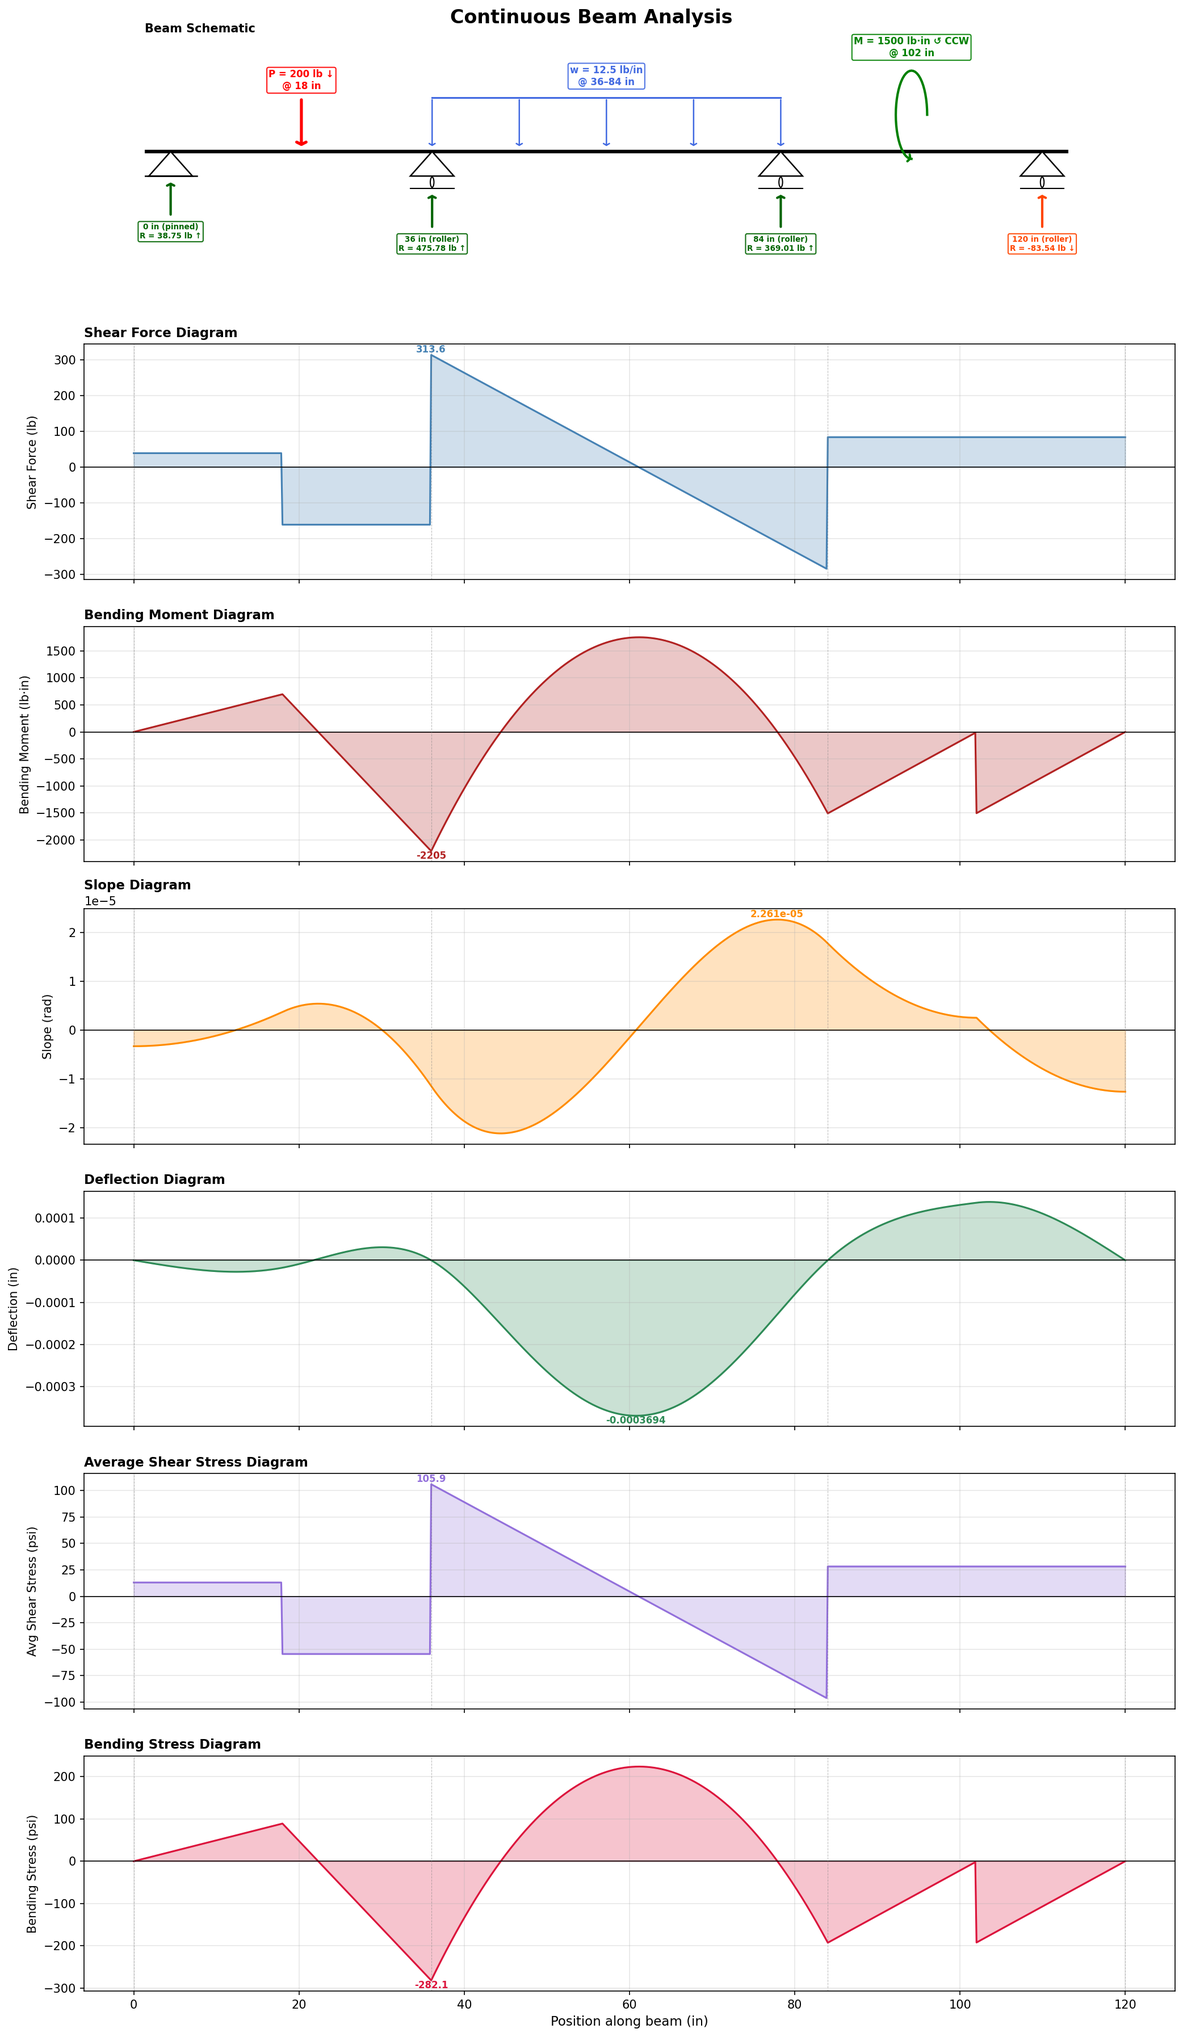
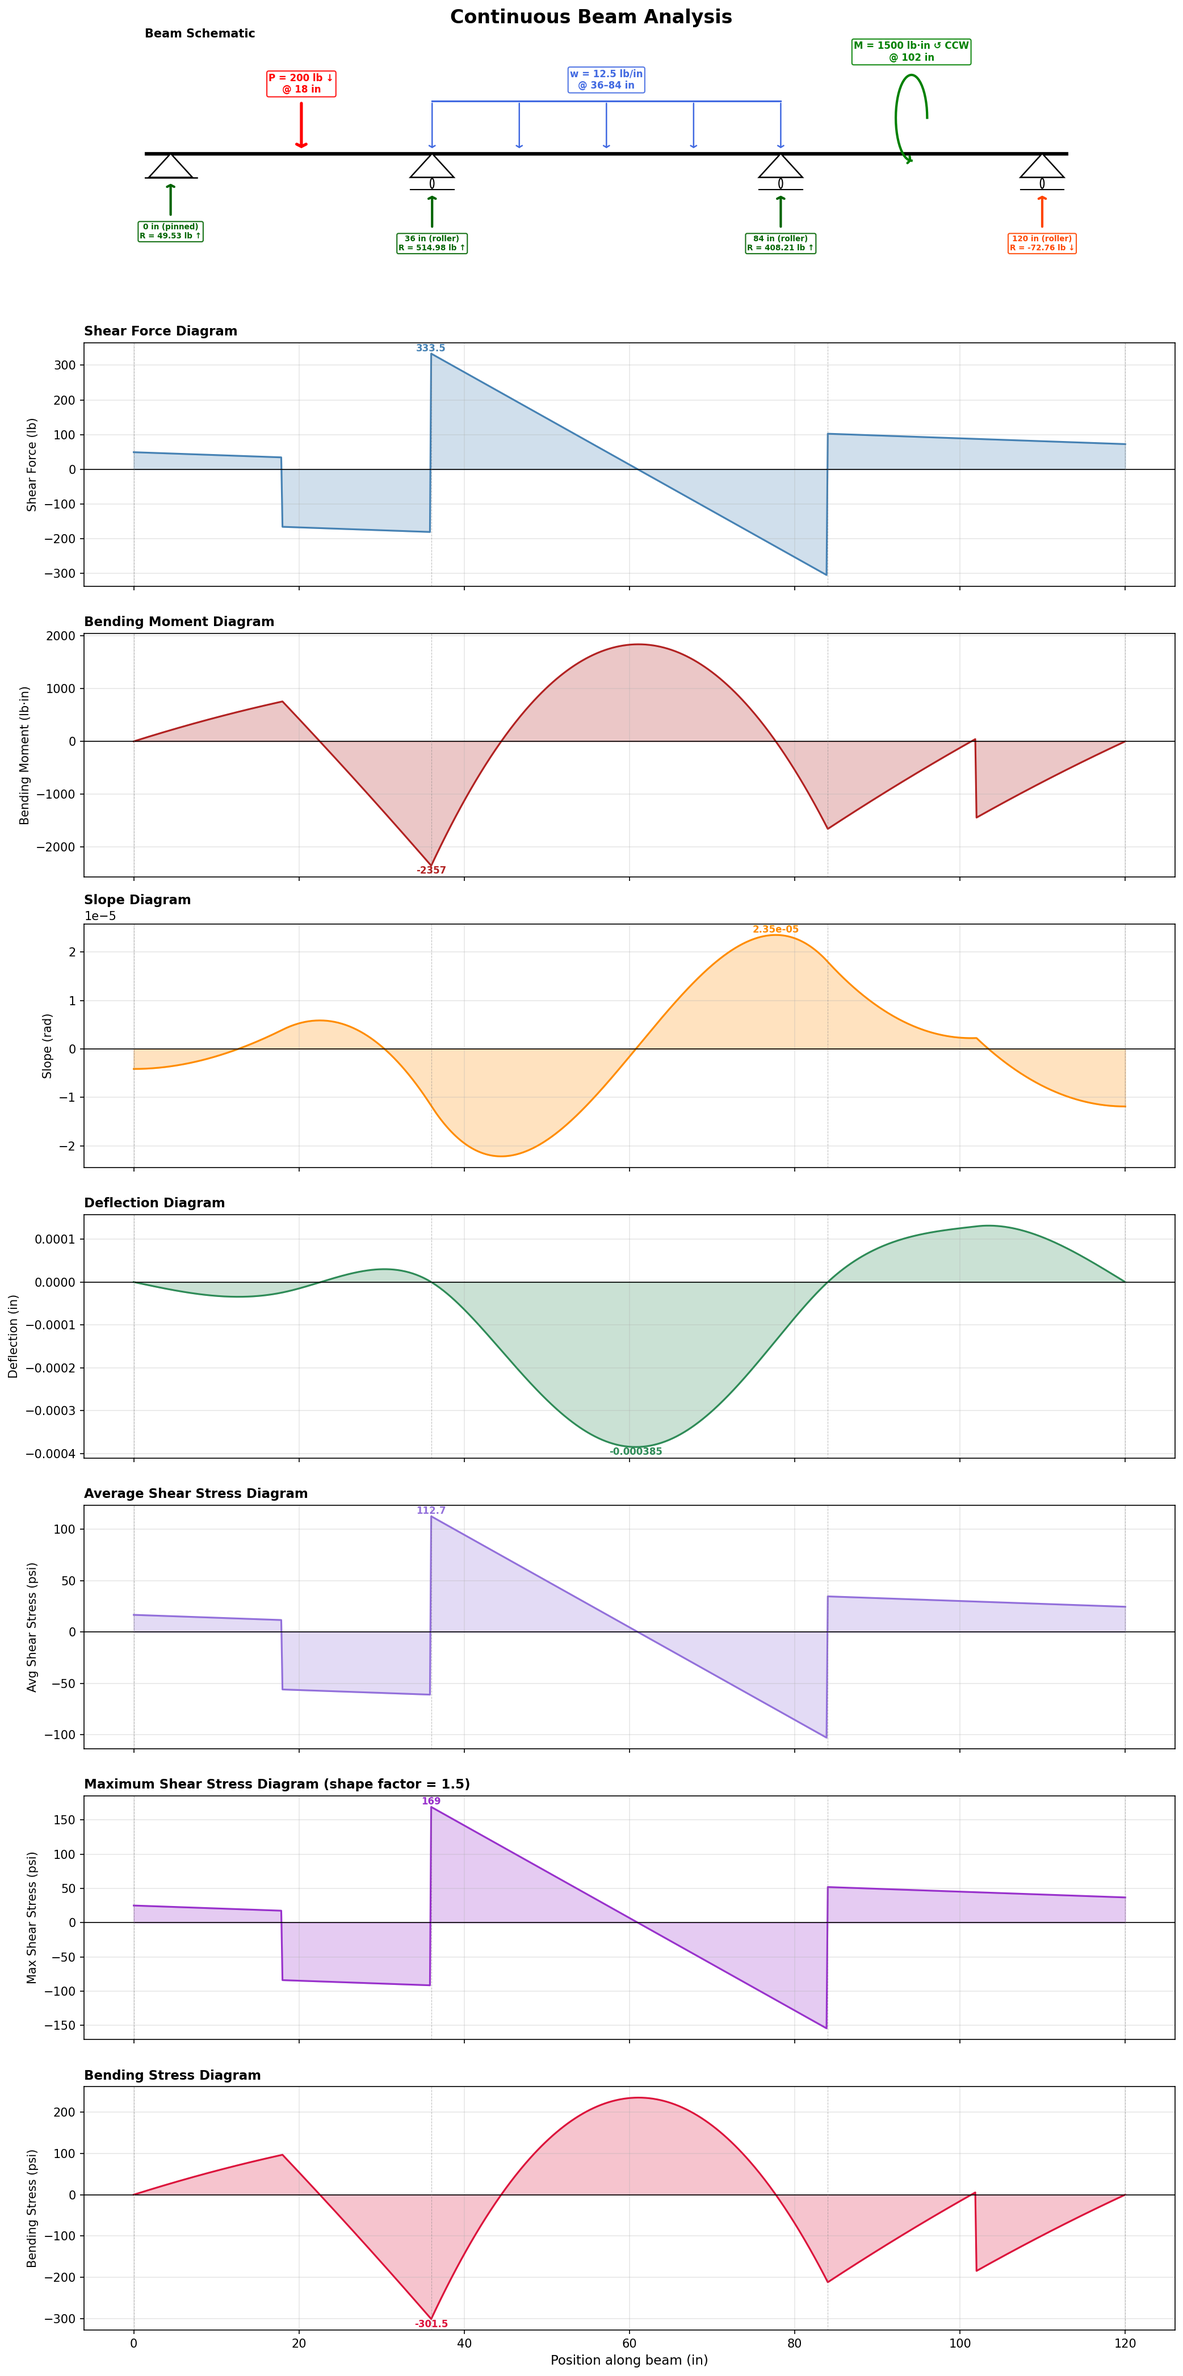
Add self-weight and maximum shear stress to beam analysis
- Add weight_per_length field to BeamSection: when > 0, the solver
  automatically includes a full-span uniform distributed load for
  beam self-weight (no manual distributed load entry needed)
- Add shear_shape_factor field to BeamSection (default 1.5 for
  rectangular): computes maximum shear stress at neutral axis as
  τ_max = factor × V/A, alongside the existing average τ = V/A
- Add 7th subplot for Maximum Shear Stress Diagram
- Report both average and max shear stress in console output
- Update first example with W8x10 self-weight (0.833 lb/in)
- Document shape factors for common sections including 80/20
  aluminum extrusions in README

https://claude.ai/code/session_01RB9D9oZgYMgHdXQeJcgdrT

diff --git a/beam_solver.py b/beam_solver.py
@@ -87,15 +87,24 @@ class AppliedMoment:
 class BeamSection:
     """
     Cross-section and material properties.
-    E : modulus of elasticity
-    I : second moment of area (moment of inertia)
-    A : cross-sectional area
-    c : distance from neutral axis to extreme fiber (for bending stress)
+    E                 : modulus of elasticity
+    I                 : second moment of area (moment of inertia)
+    A                 : cross-sectional area
+    c                 : distance from neutral axis to extreme fiber (for bending stress)
+    weight_per_length : beam self-weight per unit length (force/length, e.g. lb/in
+                        or N/mm).  If > 0 the solver automatically adds a uniform
+                        downward distributed load over the full span.  Default 0.
+    shear_shape_factor: multiplier to convert average shear stress (V/A) to maximum
+                        shear stress at the neutral axis.  Depends on cross-section
+                        shape:  1.5 for rectangular, 4/3 for solid circular,
+                        ~A/(d·t_w) for I-beams.  Default 1.5 (rectangular).
     """
     E: float
     I: float
     A: float
     c: float
+    weight_per_length: float = 0.0
+    shear_shape_factor: float = 1.5
 
 
 # ─────────────────────────────────────────────────────────────
@@ -138,7 +147,8 @@ class ContinuousBeamSolver:
         self.M_plot = None
         self.theta_plot = None
         self.delta_plot = None
-        self.tau_plot = None
+        self.tau_avg_plot = None
+        self.tau_max_plot = None
         self.sigma_plot = None
 
     # ── Mesh Generation ──────────────────────────────────────
@@ -181,6 +191,21 @@ class ContinuousBeamSolver:
         n_dof = 2 * n_nodes
         EI = self.section.E * self.section.I
 
+        # ── Self-weight ──
+        # If the section has a weight_per_length, prepend a full-span
+        # uniform distributed load so it participates in the assembly
+        # and in the equilibrium check.
+        if self.section.weight_per_length > 0:
+            self_weight_load = DistributedLoad(
+                start=0.0,
+                end=self.length,
+                w_start=self.section.weight_per_length,
+                w_end=self.section.weight_per_length,
+            )
+            self._all_distributed_loads = [self_weight_load] + list(self.distributed_loads)
+        else:
+            self._all_distributed_loads = list(self.distributed_loads)
+
         # ── Global stiffness matrix and force vector ──
         K = np.zeros((n_dof, n_dof))
         F = np.zeros(n_dof)
@@ -208,7 +233,7 @@ class ContinuousBeamSolver:
                     K[dofs[a], dofs[b]] += k_e[a, b]
 
             # ── Distributed loads (equivalent nodal forces) ──
-            for dl in self.distributed_loads:
+            for dl in self._all_distributed_loads:
                 if x1 <= dl.start + 1e-12 or x0 >= dl.end - 1e-12:
                     continue
 
@@ -336,8 +361,9 @@ class ContinuousBeamSolver:
 
     def _distributed_load_at(self, x: float) -> float:
         """Return the total distributed load intensity at position x (positive downward)."""
+        loads = getattr(self, '_all_distributed_loads', self.distributed_loads)
         w_total = 0.0
-        for dl in self.distributed_loads:
+        for dl in loads:
             if dl.start - 1e-12 <= x <= dl.end + 1e-12:
                 span = dl.end - dl.start
                 if span < 1e-14:
@@ -408,7 +434,8 @@ class ContinuousBeamSolver:
                 V[-1] = (EI / h ** 3) * (12 * v1 + 6 * h * t1 - 12 * v2 + 6 * h * t2)
 
         # ── Stresses ──
-        tau = V / self.section.A  # average shear stress
+        tau_avg = V / self.section.A  # average shear stress
+        tau_max = self.section.shear_shape_factor * tau_avg  # max shear stress at neutral axis
         sigma = M * self.section.c / self.section.I  # max bending stress (at extreme fiber)
 
         # ── Store ──
@@ -417,7 +444,8 @@ class ContinuousBeamSolver:
         self.M_plot = M
         self.theta_plot = theta
         self.delta_plot = delta
-        self.tau_plot = tau
+        self.tau_avg_plot = tau_avg
+        self.tau_max_plot = tau_max
         self.sigma_plot = sigma
 
     # ── Printing ──────────────────────────────────────────────
@@ -466,21 +494,26 @@ class ContinuousBeamSolver:
 
         print(f"\n  Sum of vertical reactions: {total_v:.4f} {f_unit}")
 
-        # Total applied load
+        # Total applied load (including self-weight if present)
         total_load = sum(pl.magnitude for pl in self.point_loads)
-        for dl in self.distributed_loads:
+        loads = getattr(self, '_all_distributed_loads', self.distributed_loads)
+        for dl in loads:
             w_avg = (dl.w_start + dl.w_end) / 2
             total_load += w_avg * (dl.end - dl.start)
         print(f"  Total applied load:       {total_load:.4f} {f_unit} (downward)")
+        if self.section.weight_per_length > 0:
+            sw = self.section.weight_per_length * self.length
+            print(f"    (includes self-weight:  {sw:.4f} {f_unit})")
         print(f"  Equilibrium check:        {abs(total_v - total_load):.6e} {f_unit}")
 
         print("\n── EXTREME VALUES ───────────────────────────────────────")
-        print(f"  Max shear force:     {np.max(np.abs(self.V_plot)):12.4f} {f_unit}")
-        print(f"  Max bending moment:  {np.max(np.abs(self.M_plot)):12.4f} {m_unit}")
-        print(f"  Max deflection:      {np.max(np.abs(self.delta_plot)):12.6f} {d_unit}")
-        print(f"  Max slope:           {np.max(np.abs(self.theta_plot)):12.6e} {ang_unit}")
-        print(f"  Max avg shear stress:{np.max(np.abs(self.tau_plot)):12.4f} {s_unit}")
-        print(f"  Max bending stress:  {np.max(np.abs(self.sigma_plot)):12.4f} {s_unit}")
+        print(f"  Max shear force:      {np.max(np.abs(self.V_plot)):12.4f} {f_unit}")
+        print(f"  Max bending moment:   {np.max(np.abs(self.M_plot)):12.4f} {m_unit}")
+        print(f"  Max deflection:       {np.max(np.abs(self.delta_plot)):12.6f} {d_unit}")
+        print(f"  Max slope:            {np.max(np.abs(self.theta_plot)):12.6e} {ang_unit}")
+        print(f"  Max avg shear stress: {np.max(np.abs(self.tau_avg_plot)):12.4f} {s_unit}")
+        print(f"  Max shear stress:     {np.max(np.abs(self.tau_max_plot)):12.4f} {s_unit}  (shape factor = {self.section.shear_shape_factor})")
+        print(f"  Max bending stress:   {np.max(np.abs(self.sigma_plot)):12.4f} {s_unit}")
         print("=" * 65)
 
     # ── Plotting ──────────────────────────────────────────────
@@ -502,7 +535,7 @@ class ContinuousBeamSolver:
 
         x = self.x_plot
 
-        fig, axes = plt.subplots(6, 1, figsize=(14, 24), sharex=True)
+        fig, axes = plt.subplots(7, 1, figsize=(14, 28), sharex=True)
         fig.suptitle("Continuous Beam Analysis", fontsize=16, fontweight="bold", y=0.995)
 
         # ── Helper: draw beam schematic on each subplot ──
@@ -516,7 +549,8 @@ class ContinuousBeamSolver:
             (self.M_plot, f"Bending Moment ({m_unit})", "firebrick", "Bending Moment Diagram"),
             (self.theta_plot, f"Slope (rad)", "darkorange", "Slope Diagram"),
             (self.delta_plot, f"Deflection ({d_unit})", "seagreen", "Deflection Diagram"),
-            (self.tau_plot, f"Avg Shear Stress ({s_unit})", "mediumpurple", "Average Shear Stress Diagram"),
+            (self.tau_avg_plot, f"Avg Shear Stress ({s_unit})", "mediumpurple", "Average Shear Stress Diagram"),
+            (self.tau_max_plot, f"Max Shear Stress ({s_unit})", "darkorchid", f"Maximum Shear Stress Diagram (shape factor = {self.section.shear_shape_factor})"),
             (self.sigma_plot, f"Bending Stress ({s_unit})", "crimson", "Bending Stress Diagram"),
         ]
 
@@ -548,7 +582,7 @@ class ContinuousBeamSolver:
         axes[-1].set_xlabel(f"Position along beam ({l_unit})", fontsize=11)
 
         # ── Draw beam schematic at the top ──
-        ax_beam = fig.add_axes([0.125, 0.86, 0.775, 0.12])
+        ax_beam = fig.add_axes([0.125, 0.88, 0.775, 0.10])
         beam_len = self.length
         pad = beam_len * 0.03
         ax_beam.set_xlim(x[0] - pad, x[-1] + pad)
@@ -787,7 +821,7 @@ class ContinuousBeamSolver:
                 zorder=6,
             )
 
-        plt.tight_layout(rect=[0, 0, 1, 0.86])
+        plt.tight_layout(rect=[0, 0, 1, 0.88])
 
         if save_path:
             plt.savefig(save_path, dpi=150, bbox_inches="tight")
@@ -826,11 +860,15 @@ def example_four_support_beam():
     #   I = 30.8 in^4
     #   A = 2.96 in^2
     #   c = 3.94 in (half-depth)
+    #   weight = 10 lb/ft = 0.833 lb/in
+    #   shear_shape_factor = 1.5 (rectangular approx; for I-beams use A/(d*t_w))
     section = BeamSection(
-        E=29_000_000.0,  # psi
-        I=30.8,          # in^4
-        A=2.96,          # in^2
-        c=3.94,          # in
+        E=29_000_000.0,       # psi
+        I=30.8,               # in^4
+        A=2.96,               # in^2
+        c=3.94,               # in
+        weight_per_length=0.833,  # lb/in  (W8x10 ≈ 10 lb/ft)
+        shear_shape_factor=1.5,   # rectangular approximation
     )
 
     # ── Supports ──

diff --git a/README.md b/README.md
@@ -11,7 +11,9 @@ A Python tool for analyzing statically indeterminate continuous beams using the 
 - **Any number of supports** at arbitrary positions — pinned, roller, fixed, or elastic (beam/spring)
 - **Mixed loading** — point loads, distributed loads (uniform or trapezoidal), and applied moments, in any combination
 - **Imperial or metric** unit systems
-- **Six output diagrams** — shear force, bending moment, slope, deflection, average shear stress, and bending stress
+- **Automatic self-weight** — optional beam weight per unit length is automatically included as a uniform distributed load
+- **Maximum shear stress** — reports both average (V/A) and maximum shear stress using a configurable cross-section shape factor
+- **Seven output diagrams** — shear force, bending moment, slope, deflection, average shear stress, maximum shear stress, and bending stress
 - **Annotated beam schematic** — a free body diagram showing all applied loads with positions, support types, and calculated reaction forces with direction arrows
 - **Console output** — tabulated reactions, equilibrium check, and extreme values
 
@@ -86,19 +88,48 @@ beam_length = 120.0  # total span in inches (or mm for metric)
 
 ```python
 section = BeamSection(
-    E=29_000_000.0,  # modulus of elasticity (psi or MPa)
-    I=30.8,          # moment of inertia (in⁴ or mm⁴)
-    A=2.96,          # cross-sectional area (in² or mm²)
-    c=3.94,          # distance from neutral axis to extreme fiber (in or mm)
+    E=29_000_000.0,       # modulus of elasticity (psi or MPa)
+    I=30.8,               # moment of inertia (in⁴ or mm⁴)
+    A=2.96,               # cross-sectional area (in² or mm²)
+    c=3.94,               # distance from neutral axis to extreme fiber (in or mm)
+    weight_per_length=0.833,  # self-weight per unit length (lb/in or N/mm), default 0
+    shear_shape_factor=1.5,   # multiplier for max shear stress (default 1.5)
 )
 ```
 
-| Property | Description | Imperial | Metric |
-|----------|-------------|----------|--------|
-| `E` | Modulus of elasticity | psi | MPa |
-| `I` | Second moment of area | in⁴ | mm⁴ |
-| `A` | Cross-sectional area | in² | mm² |
-| `c` | Extreme fiber distance | in | mm |
+| Property | Description | Imperial | Metric | Default |
+|----------|-------------|----------|--------|---------|
+| `E` | Modulus of elasticity | psi | MPa | — |
+| `I` | Second moment of area | in⁴ | mm⁴ | — |
+| `A` | Cross-sectional area | in² | mm² | — |
+| `c` | Extreme fiber distance | in | mm | — |
+| `weight_per_length` | Beam self-weight per unit length | lb/in | N/mm | 0 |
+| `shear_shape_factor` | Max-to-average shear stress ratio | — | — | 1.5 |
+
+#### Self-Weight
+
+If `weight_per_length` is set to a value greater than zero, the solver automatically adds a full-span uniform downward distributed load equal to the beam's self-weight. This load participates in the analysis alongside all other applied loads and is included in the equilibrium check.
+
+```python
+# W8x10 steel beam weighs 10 lb/ft = 0.833 lb/in
+section = BeamSection(E=29e6, I=30.8, A=2.96, c=3.94, weight_per_length=0.833)
+```
+
+To omit self-weight (the default), either leave the parameter out or set it to `0`.
+
+#### Shear Shape Factor
+
+The average shear stress `V/A` underestimates the actual maximum shear stress at the neutral axis. The `shear_shape_factor` converts average to maximum: `τ_max = shear_shape_factor × V/A`.
+
+| Cross-Section | Shape Factor |
+|---------------|-------------|
+| Rectangular | 1.5 |
+| Solid circular | 4/3 ≈ 1.333 |
+| Thin-walled circular | 2.0 |
+| Wide-flange (I-beam) | ≈ A / (d × t_w) |
+| Aluminum extrusion (e.g. 80/20) | ≈ A / (d × t_w_min) — use the thinnest web |
+
+For complex profiles like 80/20 T-slot extrusions, check the manufacturer's data sheet for section properties and minimum web thickness, then compute the factor as `A / (depth × min_web_thickness)`.
 
 **Common material values:**
 
@@ -264,9 +295,11 @@ The plot is saved to the specified path (default: `beam_analysis.png`) and conta
 
 5. **Deflection Diagram** — vertical displacement δ of the beam (in length units). Negative = downward. Zero at pinned/roller/fixed support locations; non-zero at beam (spring) supports.
 
-6. **Average Shear Stress Diagram** — τ = V / A (in stress units). Same shape as the shear force diagram, scaled by cross-sectional area. Note: actual maximum shear stress is higher (1.5× for rectangular sections; varies for other shapes).
+6. **Average Shear Stress Diagram** — τ_avg = V / A (in stress units). Same shape as the shear force diagram, scaled by cross-sectional area.
 
-7. **Bending Stress Diagram** — σ = M·c / I (in stress units). Maximum fiber stress at the extreme fiber of the cross-section. Compare this to the material's allowable bending stress.
+7. **Maximum Shear Stress Diagram** — τ_max = shear_shape_factor × V / A (in stress units). The actual peak shear stress at the neutral axis, accounting for cross-section shape. Compare this to the material's allowable shear stress.
+
+8. **Bending Stress Diagram** — σ = M·c / I (in stress units). Maximum fiber stress at the extreme fiber of the cross-section. Compare this to the material's allowable bending stress.
 
 ---
 
@@ -301,7 +334,8 @@ print(solver.V_plot)             # shear force array
 print(solver.M_plot)             # bending moment array
 print(solver.delta_plot)         # deflection array
 print(solver.theta_plot)         # slope array
-print(solver.tau_plot)           # average shear stress array
+print(solver.tau_avg_plot)       # average shear stress array
+print(solver.tau_max_plot)       # maximum shear stress array (shape-factor adjusted)
 print(solver.sigma_plot)         # bending stress array
 print(solver.x_plot)             # x-coordinate array for all plots
 # * 'displacement' key is only present for beam (spring) supports
@@ -346,7 +380,7 @@ The solver uses the **direct stiffness method** with Euler-Bernoulli beam elemen
 - Deflection and slope are read directly from the solution vector.
 - Bending moment is computed from the second derivative of the displacement field: M = EI · v″, evaluated using Hermite shape function derivatives.
 - Shear force is computed from the third derivative: V = EI · v‴ (constant per element).
-- Stresses are computed from the internal forces: σ = M·c/I and τ = V/A.
+- Stresses are computed from the internal forces: σ = M·c/I (max bending stress at extreme fiber), τ_avg = V/A (average shear stress), and τ_max = shear_shape_factor × V/A (maximum shear stress at neutral axis).
 
 ---
 
@@ -355,8 +389,7 @@ The solver uses the **direct stiffness method** with Euler-Bernoulli beam elemen
 - **Euler-Bernoulli theory** — assumes plane sections remain plane and neglects shear deformation. Accurate for slender beams (length/depth > 10). For deep beams, Timoshenko beam theory would be more appropriate.
 - **Prismatic beam** — the cross-section (E, I, A, c) is constant along the entire length. Stepped or tapered beams are not supported.
 - **Linear elastic** — assumes small deflections and linear material behavior. Not suitable for plastic analysis or large-deformation problems.
-- **Average shear stress** — the reported shear stress is V/A, which is a simplification. The actual shear stress distribution depends on the cross-section shape (parabolic for rectangular, concentrated in the web for I-beams).
-- **No self-weight** — the beam's own weight is not automatically included. Add it as a distributed load if needed.
+- **Shear stress approximation** — the maximum shear stress uses a single shape factor applied to V/A. For complex cross-sections (e.g. aluminum extrusions, multi-cell profiles), a more detailed analysis (VQ/It) may be needed. The shape factor approach is conservative for standard shapes.
 - **2D analysis** — vertical loads and in-plane bending only. No lateral-torsional buckling, biaxial bending, or axial loads.
 
 ---
